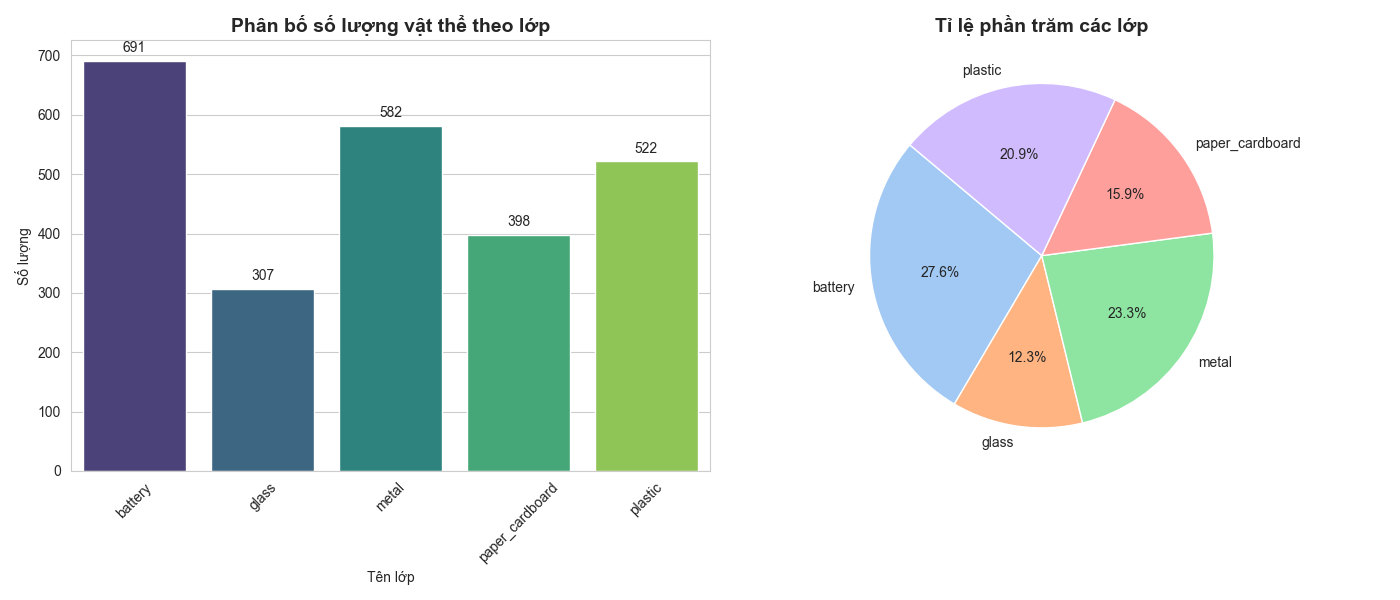
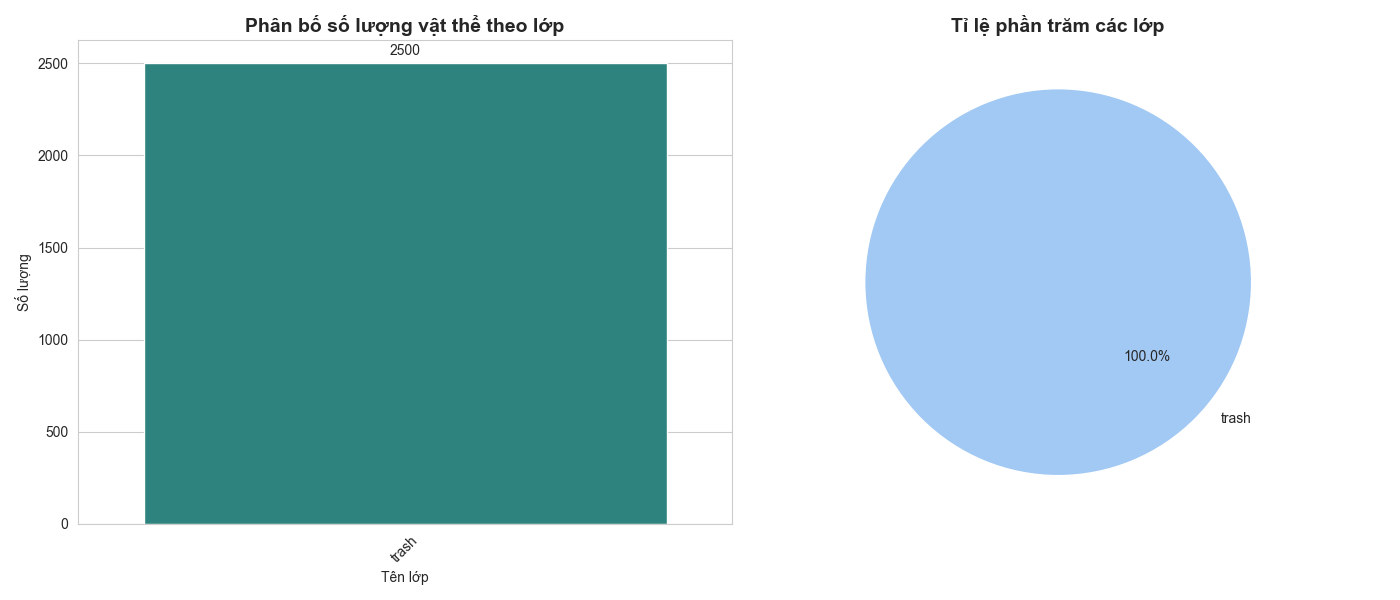
Modify AI

diff --git a/app/src/ui/panels.py b/app/src/ui/panels.py
@@ -87,8 +87,8 @@ class SettingsPanel(QWidget):
     def create_connection_tab(self):
         widget = QWidget()
         layout = QVBoxLayout()
-        layout.setSpacing(15)  # 🆕 FIX: Responsive - 20 -> 15
-        layout.setContentsMargins(20, 20, 20, 20)  # 🆕 FIX: Responsive - 30 -> 20
+        layout.setSpacing(20)
+        layout.setContentsMargins(30, 30, 30, 30)
 
         robot_label = QLabel("Robot IP Address")
         robot_label.setFont(QFont("Segoe UI", 11, QFont.Weight.Bold))
@@ -151,17 +151,17 @@ class SettingsPanel(QWidget):
     def create_manual_tab(self):
         widget = QWidget()
         layout = QVBoxLayout()
-        layout.setSpacing(15)  # 🆕 FIX: Responsive - 20 -> 15
-        layout.setContentsMargins(20, 20, 20, 20)  # 🆕 FIX: Responsive - 30 -> 20
+        layout.setSpacing(20)
+        layout.setContentsMargins(30, 30, 30, 30)
         
         l1 = QHBoxLayout()
         lbl_speed_title = QLabel("Speed:")
-        lbl_speed_title.setMinimumWidth(50)  # 🆕 FIX: Responsive - 80 -> 50
+        lbl_speed_title.setMinimumWidth(80)
         self.slider_man_speed = QSlider(Qt.Orientation.Horizontal)
         self.slider_man_speed.setRange(0, 255)
         self.slider_man_speed.setValue(80)
         lbl_speed = QLabel("80")
-        lbl_speed.setMinimumWidth(30)  # 🆕 FIX: Responsive - 40 -> 30
+        lbl_speed.setMinimumWidth(40)
         lbl_speed.setAlignment(Qt.AlignmentFlag.AlignRight)
         self.slider_man_speed.valueChanged.connect(lambda v: lbl_speed.setText(str(v)))
         l1.addWidget(lbl_speed_title)
@@ -182,29 +182,29 @@ class SettingsPanel(QWidget):
     def create_auto_tab(self):
         widget = QWidget()
         layout = QVBoxLayout()
-        layout.setSpacing(12)  # 🆕 FIX: Responsive - 15 -> 12
-        layout.setContentsMargins(15, 15, 15, 15)  # 🆕 FIX: Responsive - 20 -> 15
+        layout.setSpacing(15)
+        layout.setContentsMargins(20, 20, 20, 20)
         
         # --- NHÓM 1: CƠ BẢN ---
         l1 = QHBoxLayout()
         lbl_speed_title = QLabel("Speed:")
-        lbl_speed_title.setMinimumWidth(50)  # 🆕 FIX: Responsive - 80 -> 50
+        lbl_speed_title.setMinimumWidth(80)
         self.slider_auto_speed = QSlider(Qt.Orientation.Horizontal)
         self.slider_auto_speed.setRange(0, 255)
         self.slider_auto_speed.setValue(65)
         lbl_speed = QLabel("65")
-        lbl_speed.setMinimumWidth(30)  # 🆕 FIX: Responsive - 40 -> 30
+        lbl_speed.setMinimumWidth(40)
         self.slider_auto_speed.valueChanged.connect(lambda v: lbl_speed.setText(str(v)))
         l1.addWidget(lbl_speed_title); l1.addWidget(self.slider_auto_speed); l1.addWidget(lbl_speed)
         
         l2 = QHBoxLayout()
         lbl_conf_title = QLabel("AI Conf:")
-        lbl_conf_title.setMinimumWidth(50)  # 🆕 FIX: Responsive - 80 -> 50
+        lbl_conf_title.setMinimumWidth(80)
         self.slider_auto_conf = QSlider(Qt.Orientation.Horizontal)
         self.slider_auto_conf.setRange(10, 80)
         self.slider_auto_conf.setValue(20)
         lbl_conf = QLabel("20%")
-        lbl_conf.setMinimumWidth(30)  # 🆕 FIX: Responsive - 40 -> 30
+        lbl_conf.setMinimumWidth(40)
         self.slider_auto_conf.valueChanged.connect(lambda v: lbl_conf.setText(f"{v}%"))
         l2.addWidget(lbl_conf_title); l2.addWidget(self.slider_auto_conf); l2.addWidget(lbl_conf)
 

diff --git a/app/src/main.py b/app/src/main.py
@@ -83,7 +83,6 @@ class RobotApp(QMainWindow):
             
         self.setWindowTitle("Trash Detector Robot - STABLE")
         self.resize(1280, 800)
-        self.setMinimumSize(900, 600)  # 🆕 Min window size để responsive work
         self.setStyleSheet(MAIN_THEME)
         
         # --- CONFIG ---
@@ -163,8 +162,7 @@ class RobotApp(QMainWindow):
         self.lbl_video = QLabel("NO SIGNAL")
         self.lbl_video.setAlignment(Qt.AlignmentFlag.AlignCenter)
         self.lbl_video.setStyleSheet("background: #000; border: 2px solid #0078D4; color: #555;")
-        # 🆕 FIX: Responsive - dùng setMinimumSize với giá trị nhỏ hơn, Expanding size policy
-        self.lbl_video.setMinimumSize(320, 240)
+        self.lbl_video.setMinimumSize(640, 480)
         self.lbl_video.setSizePolicy(QSizePolicy.Policy.Expanding, QSizePolicy.Policy.Expanding)
         left_lay.addWidget(self.lbl_video, 1)
         
@@ -179,17 +177,12 @@ class RobotApp(QMainWindow):
         right_lay = QVBoxLayout()
         right_container = QWidget()
         right_container.setLayout(right_lay)
-        # 🆕 FIX: Responsive - giảm minimum width từ 380 -> 280, add max width để co dãn tốt
-        right_container.setMinimumWidth(280)
-        right_container.setMaximumWidth(500)
-        right_container.setSizePolicy(QSizePolicy.Policy.Preferred, QSizePolicy.Policy.Expanding)
+        right_container.setMinimumWidth(380)
 
         # Sensor
         grp_sens = QGroupBox("RADAR")
         # ... (Giữ nguyên style) ...
-        # 🆕 FIX: Responsive - giảm minimum height từ 160 -> 100
-        grp_sens.setMinimumHeight(100)
-        grp_sens.setSizePolicy(QSizePolicy.Policy.Expanding, QSizePolicy.Policy.Preferred)
+        grp_sens.setMinimumHeight(160)
         g_lay = QHBoxLayout()
         self.box_L = SensorBox("LEFT")
         self.box_F = SensorBox("FRONT")
@@ -205,8 +198,7 @@ class RobotApp(QMainWindow):
         
         self.btn_mode = QPushButton("SWITCH TO AUTO MODE")
         self.btn_mode.setCheckable(True)
-        # 🆕 FIX: Responsive - giảm minimum height từ 50 -> 40
-        self.btn_mode.setMinimumHeight(40)
+        self.btn_mode.setMinimumHeight(50)
         self.btn_mode.clicked.connect(self.request_toggle_mode)
         op_lay.addWidget(self.btn_mode)
 

diff --git a/ai/scripts/test_model/metrix.py b/ai/scripts/test_model/metrix.py
@@ -137,11 +137,8 @@ def analyze_yolo_dataset(dataset_path, data_yaml_path=None, img_formats=None):
     plt.show()
 
 if __name__ == "__main__":
-    # Thay đổi đường dẫn tới thư mục dataset của bạn
-    # Ví dụ: "D:/LocTP/6_class_dataset_v7" hoặc "D:/LocTP/6_class_dataset_v7/train"
-    MY_DATASET_PATH = r"ai/data/final_yolo_dataset" 
+    MY_DATASET_PATH = r"ai/data/final_yolo_trash-dataset" 
     
-    # Thay đổi đường dẫn tới file data.yaml (để lấy tên class cho đẹp)
-    MY_YAML_PATH = r"ai/scripts/test_model/final_data.yaml"
+    MY_YAML_PATH = r"ai/scripts/test_model/final_data copy.yaml"
     
     analyze_yolo_dataset(MY_DATASET_PATH, MY_YAML_PATH)

diff --git a/ai/scripts/prepare_data/change_id.py b/ai/scripts/prepare_data/change_id.py
@@ -36,10 +36,10 @@ def update_class_id_in_folder(target_folder, new_class_id):
 
     print(f"Đã cập nhật {file_count} file trong thư mục.")
 
-ID = 4
+ID = 0
 
 
-FOLDER = 'ai/data/final_dataset_label/plastic' 
+FOLDER = 'ai/data/final_yolo_trash-dataset/labels/train' 
 
 if __name__ == "__main__":
     if not os.path.isdir(FOLDER):
